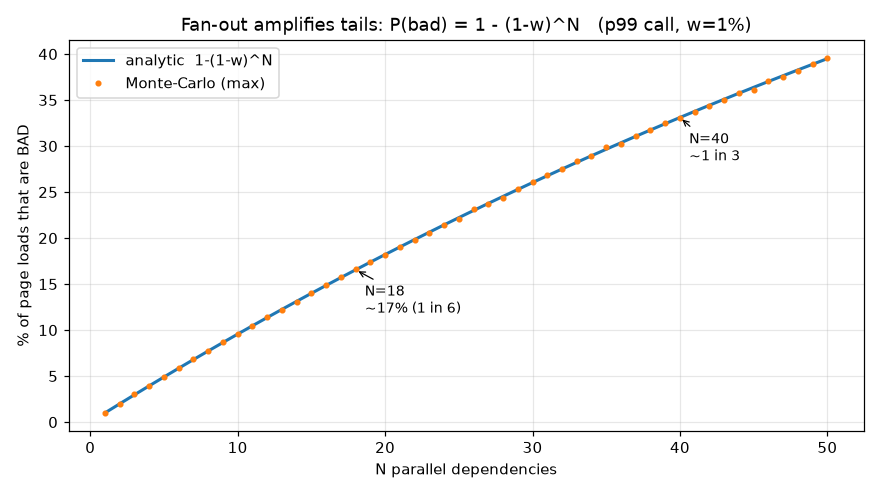
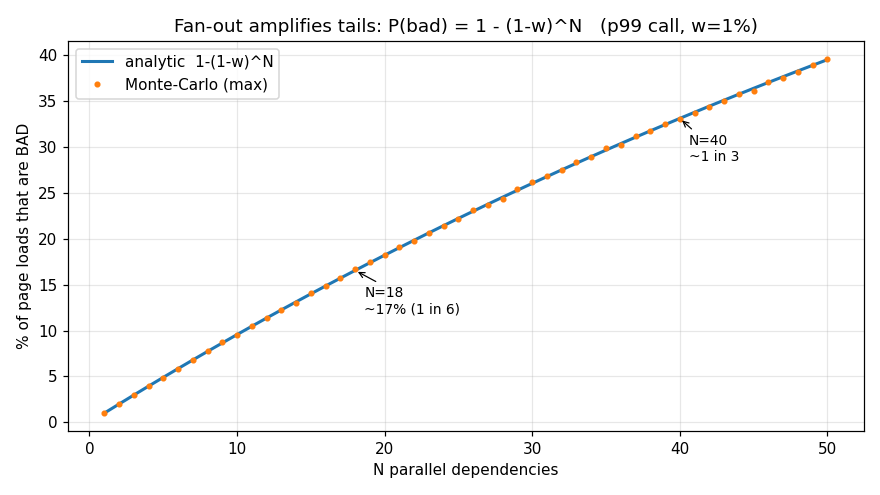
Aligns "slow time" to "slow experience" in the preface
The rest of the repo says "slow experience"; the lineage preface still
read "slow time." One-word consistency fix.

diff --git a/README.md b/README.md
@@ -7,8 +7,8 @@ This isn't a new idea. Marc Brooker laid out the model it runs on in 2021, and
 Dean and Barroso had named the effect eight years before that, in their classic
 tail-at-scale paper. Both arrive at the same uncomfortable place: a system can
 sit comfortably inside its percentiles while a real share of its users have a
-slow time in aggregate. This project builds on their work and lets you watch it
-happen.
+slow experience in aggregate. This project builds on their work and lets you
+watch it happen.
 
 When we reason about latency, we often do so with an average in our heads, or that only one in a hundred calls are slow, and those can hide what's happening in the tail. What catches us out isn't arithmetic as much as tail latency is **distributional**. When mobile home screen or web page fires multiple calls to render itself, the share of slow load experienced by users climbs far faster than a single endpoint's dashboard might ever suggest.
 